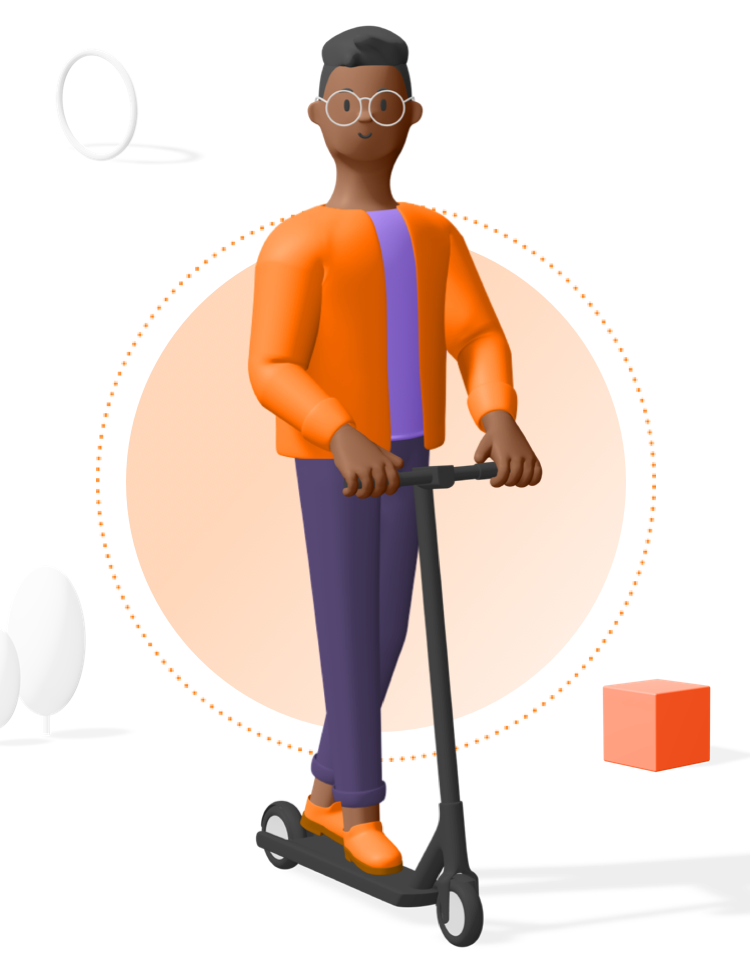
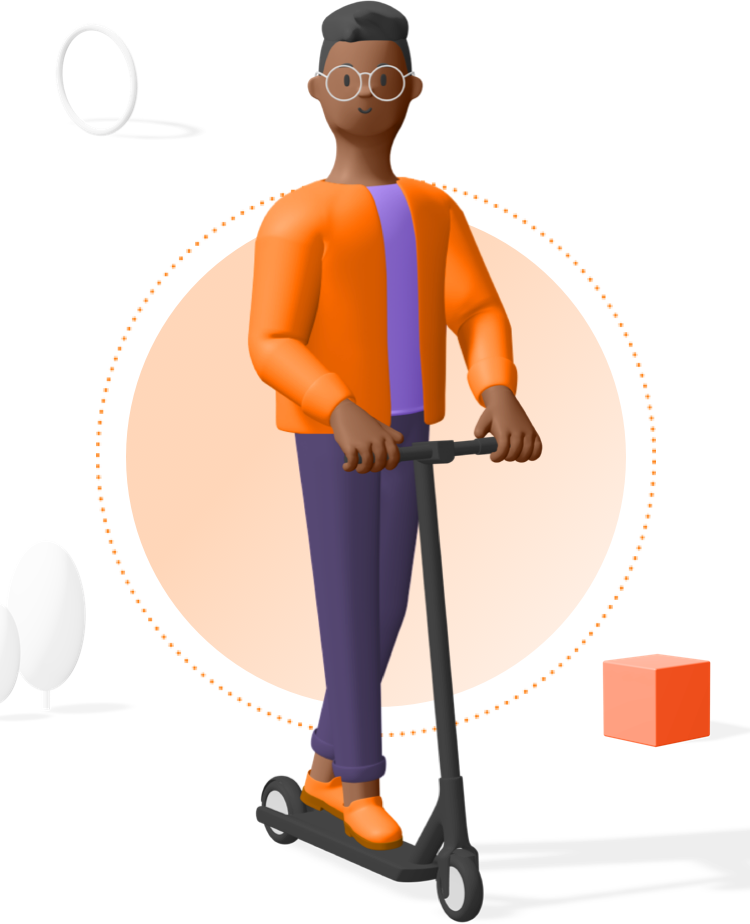
-  re-exported onboarding images -  updated screen dimentions for splash.dart, onboarding.dart -  started working on the login.dart

diff --git a/lib/screens/onboarding.dart b/lib/screens/onboarding.dart
@@ -1,4 +1,5 @@
 import 'package:flutter/material.dart';
+import 'package:flutter/services.dart';
 import 'package:flutter_onboarding_slider/flutter_onboarding_slider.dart';
 import 'package:flutter_screenutil/flutter_screenutil.dart';
 
@@ -7,8 +8,10 @@ class OnBoardingScreen extends StatelessWidget {
 
   @override
   Widget build(BuildContext context) {
-    ScreenUtil.init(context, designSize: const Size(430, 932));
+    ScreenUtil.init(context, designSize: const Size(375, 812));
     ScreenUtil.enableScale(enableWH: () => true, enableText: () => true);
+
+    SystemChrome.setPreferredOrientations([DeviceOrientation.portraitUp]);
 
     return OnBoardingSlider(
       controllerColor: const Color(0xFFFF7D0D),
@@ -36,24 +39,24 @@ class OnBoardingScreen extends StatelessWidget {
       },
       background: [
         SizedBox(
-          width: 430.w,
-          height: 525.h,
+          width: 375.w,
+          height: 470.h,
           child: Image.asset(
             'lib/assets/images/onboarding_01.png',
             fit: BoxFit.fill,
           ),
         ),
         SizedBox(
-          width: 430.w,
-          height: 525.h,
+          width: 375.w,
+          height: 470.h,
           child: Image.asset(
             'lib/assets/images/onboarding_02.png',
             fit: BoxFit.fill,
           ),
         ),
         SizedBox(
-          width: 430.w,
-          height: 525.h,
+          width: 375.w,
+          height: 470.h,
           child: Image.asset(
             'lib/assets/images/onboarding_03.png',
             fit: BoxFit.fill,
@@ -62,12 +65,12 @@ class OnBoardingScreen extends StatelessWidget {
       ],
       pageBodies: [
         Container(
-          margin: EdgeInsets.only(left: 25.w, right: 25.w),
+          margin: EdgeInsets.only(left: 18.w, right: 18.w),
           child: Column(
             mainAxisAlignment: MainAxisAlignment.start,
             crossAxisAlignment: CrossAxisAlignment.start,
             children: <Widget>[
-              SizedBox(height: 540.h,),
+              SizedBox(height: 480.h,),
               Text(
                 'Explore',
                 style: TextStyle(
@@ -75,30 +78,29 @@ class OnBoardingScreen extends StatelessWidget {
                   fontSize: 42.sp,
                   fontFamily: 'Marcellus',
                   fontWeight: FontWeight.w400,
-                  letterSpacing: 1.0,
                 ),
               ),
-              SizedBox(height: 20.h,),
+              SizedBox(height: 5.h,),
               Text(
                 'Explore your favourite destination \naround the world.',
                 style: TextStyle(
                   color: const Color(0xFFAAAAAA),
-                  fontSize: 19.sp,
+                  fontSize: 16.sp,
                   fontFamily: 'Gilroy',
                   fontWeight: FontWeight.w400,
-                  height: 1.2,
+                  height: 1.2.h,
                 ),
               ),
             ],
           ),
         ),
         Container(
-          margin: EdgeInsets.only(left: 25.w, right: 25.w),
+          margin: EdgeInsets.only(left: 18.w, right: 18.w),
           child: Column(
             mainAxisAlignment: MainAxisAlignment.start,
             crossAxisAlignment: CrossAxisAlignment.start,
             children: <Widget>[
-              SizedBox(height: 540.h,),
+              SizedBox(height: 480.h,),
               Text(
                 'Easy Peasy',
                 style: TextStyle(
@@ -106,32 +108,29 @@ class OnBoardingScreen extends StatelessWidget {
                   fontSize: 42.sp,
                   fontFamily: 'Marcellus',
                   fontWeight: FontWeight.w400,
-                  letterSpacing: 1.0,
                 ),
               ),
-              SizedBox(
-                height: 20.h,
-              ),
+              SizedBox(height: 5.h,),
               Text(
                 'Make your travel experience very \neasy & peasy.',
                 style: TextStyle(
                   color: const Color(0xFFAAAAAA),
-                  fontSize: 19.sp,
+                  fontSize: 16.sp,
                   fontFamily: 'Gilroy',
                   fontWeight: FontWeight.w400,
-                  height: 1.2,
+                  height: 1.2.h,
                 ),
               ),
             ],
           ),
         ),
         Container(
-          margin: EdgeInsets.only(left: 25.w, right: 25.w),
+          margin: EdgeInsets.only(left: 18.w, right: 18.w),
           child: Column(
             mainAxisAlignment: MainAxisAlignment.start,
             crossAxisAlignment: CrossAxisAlignment.start,
             children: <Widget>[
-              SizedBox(height: 540.h,),
+              SizedBox(height: 480.h,),
               Text(
                 'Enjoy Tour',
                 style: TextStyle(
@@ -139,18 +138,17 @@ class OnBoardingScreen extends StatelessWidget {
                   fontSize: 42.sp,
                   fontFamily: 'Marcellus',
                   fontWeight: FontWeight.w400,
-                  letterSpacing: 1.0,
                 ),
               ),
-              SizedBox(height: 20.h,),
+              SizedBox(height: 5.h,),
               Text(
                 'Enjoy your favourite destination with \nyour love one.',
                 style: TextStyle(
                   color: const Color(0xFFAAAAAA),
-                  fontSize: 19.sp,
+                  fontSize: 16.sp,
                   fontFamily: 'Gilroy',
                   fontWeight: FontWeight.w400,
-                  height: 1.2,
+                  height: 1.2.h,
                 ),
               ),
             ],

diff --git a/lib/screens/splash.dart b/lib/screens/splash.dart
@@ -15,10 +15,11 @@ class _SplashScreenState extends State<SplashScreen> {
   final background = Container(
     decoration: const BoxDecoration(
       image: DecorationImage(
-          image: AssetImage(
-            "lib/assets/images/splash_screen.png",
-          ),
-          fit: BoxFit.fill),
+        image: AssetImage(
+          "lib/assets/images/splash_screen.png",
+        ),
+        fit: BoxFit.fill,
+      ),
     ),
   );
 
@@ -43,7 +44,7 @@ class _SplashScreenState extends State<SplashScreen> {
 
   @override
   Widget build(BuildContext context) {
-    ScreenUtil.init(context, designSize: const Size(640, 1136));
+    ScreenUtil.init(context, designSize: const Size(375, 812));
     ScreenUtil.enableScale(enableWH: () => true, enableText: () => true);
 
     SystemChrome.setPreferredOrientations([DeviceOrientation.portraitUp]);
@@ -54,15 +55,17 @@ class _SplashScreenState extends State<SplashScreen> {
           background,
           Column(
             mainAxisAlignment: MainAxisAlignment.center,
+            crossAxisAlignment: CrossAxisAlignment.center,
             children: <Widget>[
+              SizedBox(height: 75.h),
               Image.asset(
                 'lib/assets/images/Logo.png',
-                width: 400.w,
-                height: 125.h,
+                width: 250.w,
+                height: 50.h,
               ),
-              /*SizedBox(height: 15.h),*/
+              SizedBox(height: 10.h),
               Padding(
-                padding: const EdgeInsets.symmetric(horizontal: 80),
+                padding: EdgeInsets.symmetric(horizontal: 77.5.w),
                 child: Row(
                   mainAxisAlignment: MainAxisAlignment.start,
                   children: [
@@ -70,10 +73,10 @@ class _SplashScreenState extends State<SplashScreen> {
                       "Enjoy your traveling",
                       style: TextStyle(
                         color: const Color(0xFF000000),
-                        fontSize: 28.sp,
+                        fontSize: 16.sp,
                         fontFamily: 'Marcellus',
-                        /*fontWeight: FontWeight.w700,*/
-                        letterSpacing: 1.0,
+                        /*fontWeight: FontWeight.w700,
+                        letterSpacing: 1.0,*/
                       ),
                     ),
                   ],

diff --git a/lib/screens/login.dart b/lib/screens/login.dart
@@ -1,10 +1,35 @@
 import 'package:flutter/material.dart';
+import 'package:flutter/services.dart';
+import 'package:flutter/widgets.dart';
+import 'package:flutter_screenutil/flutter_screenutil.dart';
 
 class LoginScreen extends StatelessWidget {
   const LoginScreen({super.key});
 
   @override
   Widget build(BuildContext context) {
-    return const Placeholder();
+    ScreenUtil.init(context, designSize: const Size(430, 932));
+    ScreenUtil.enableScale(enableWH: () => true, enableText: () => true);
+
+    SystemChrome.setPreferredOrientations([DeviceOrientation.portraitUp]);
+    return Scaffold(
+      body: SingleChildScrollView(
+        child: Container(
+          width: 430.w,
+          height: 932.h,
+          margin: EdgeInsets.only(left: 20.w, right: 20.w),
+          child: Column(
+            mainAxisAlignment: MainAxisAlignment.center,
+            children: [
+              Image.asset(
+                'lib/assets/images/Logo.png',
+                width: 256.w,
+                height: 86.h,
+              ),
+            ],
+          ),
+        ),
+      ),
+    );
   }
 }
